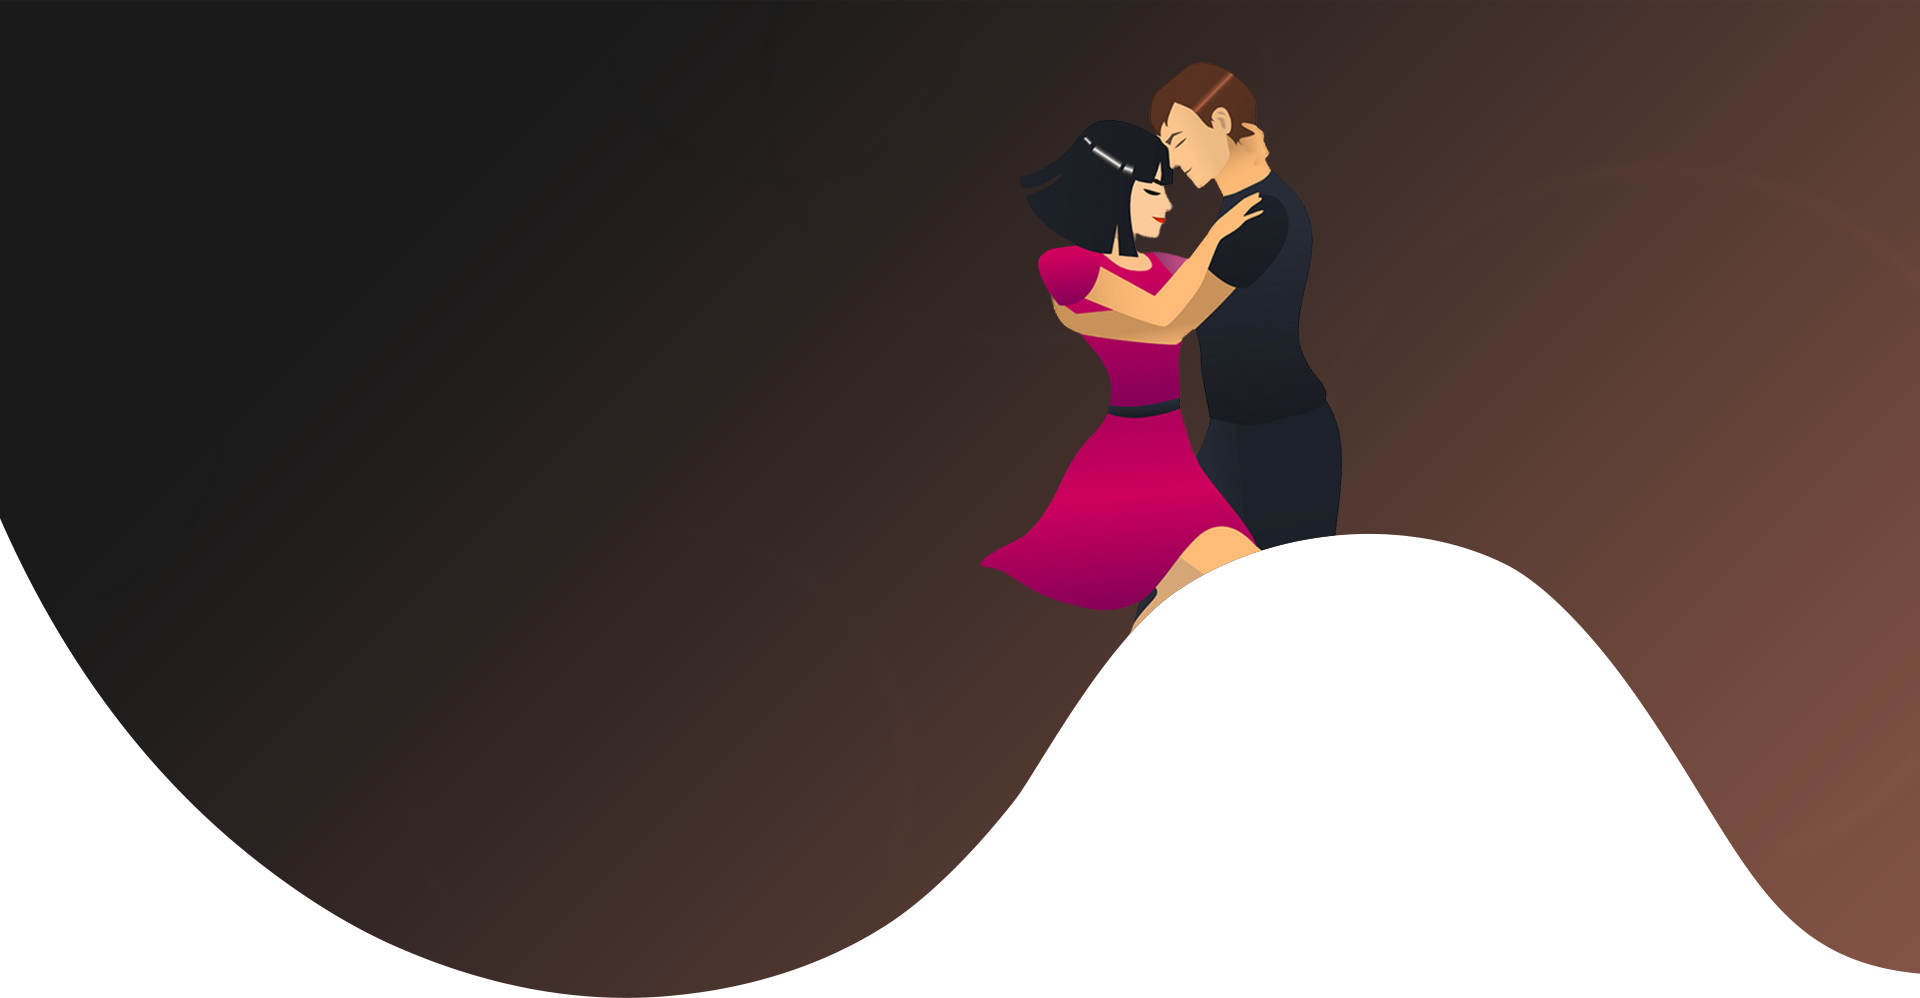
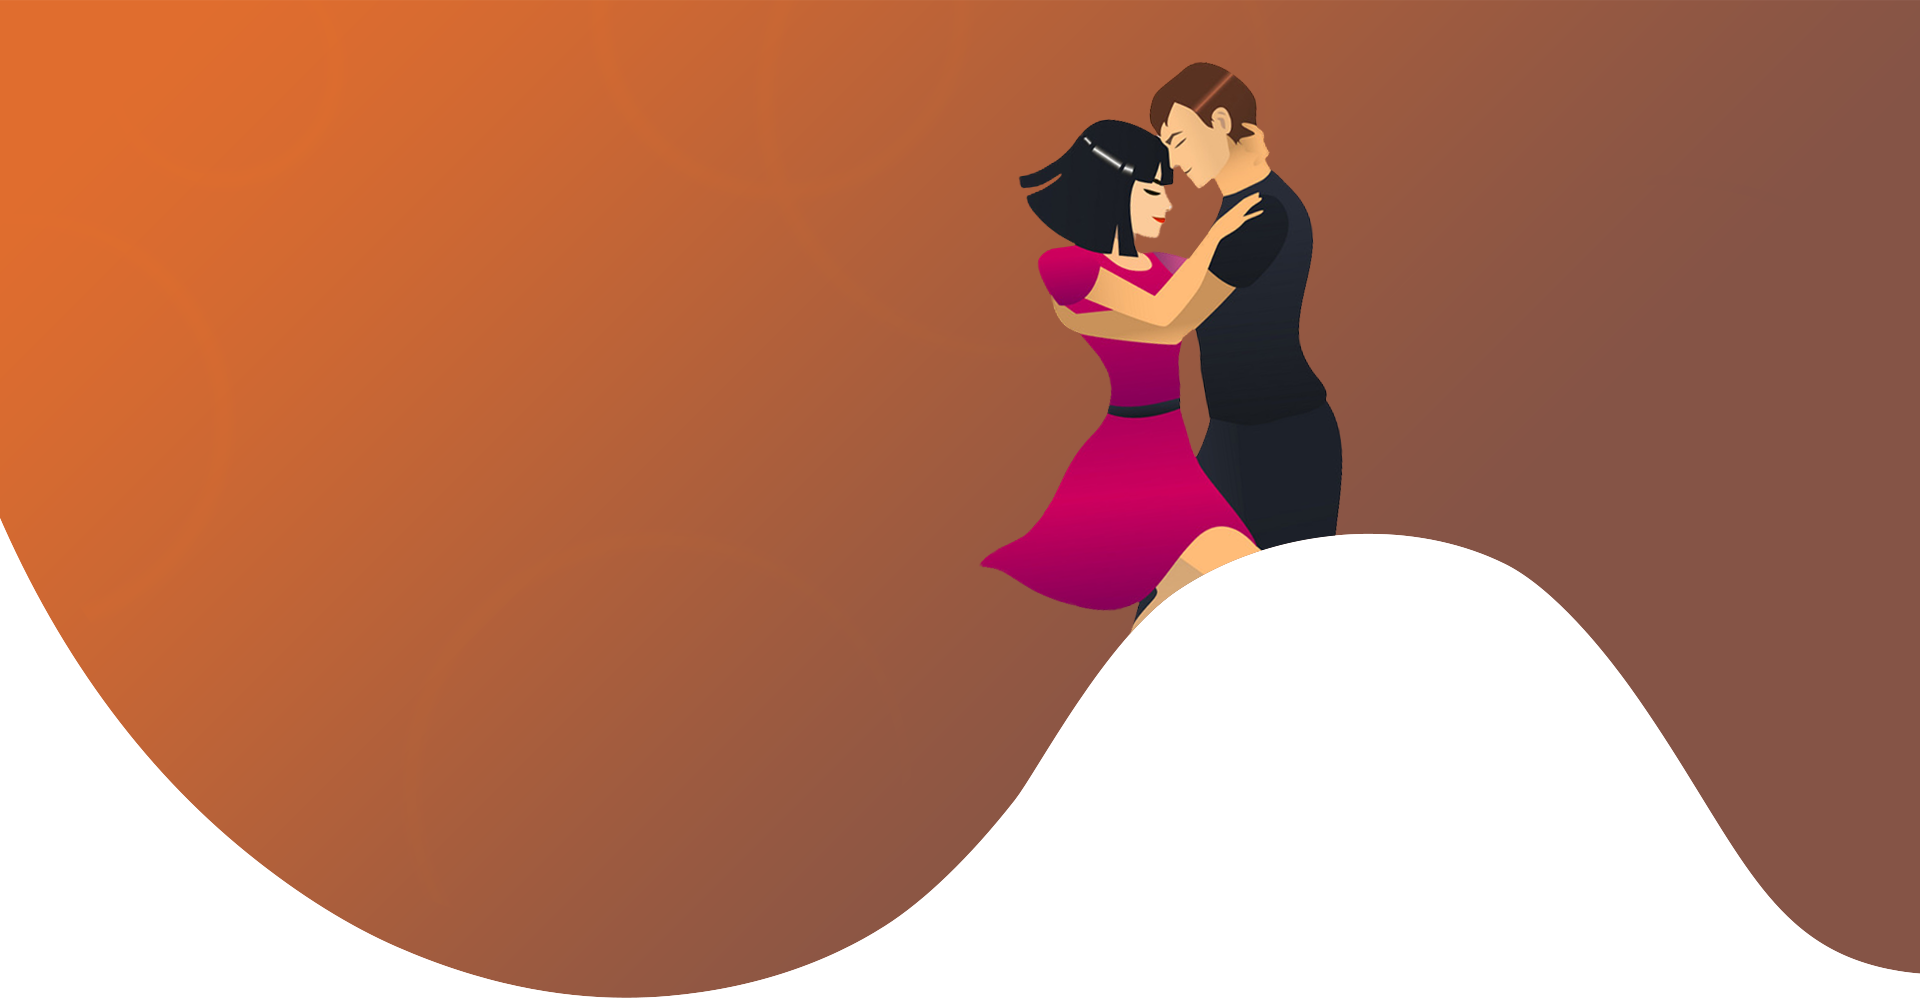
Bachata Pocket
Changes

diff --git a/pocketbachata/index.html b/pocketbachata/index.html
@@ -75,7 +75,7 @@
 											}
 			
 											.pb2 {
-												fill: #FF8541;
+												fill: #FFFFFF;
 											}
 										</style>
 										<g>
@@ -351,18 +351,14 @@
 					<div class="col-12 col-md-6 col-lg-6 col-xl-4">
 						<div class="BBGK-content-item">
 							<div class="BBGK-content-item-icon">
-								<svg xmlns="http://www.w3.org/2000/svg" xmlns:xlink="http://www.w3.org/1999/xlink" width="86" height="74"
-								 viewBox="0 0 86 74">
-									<metadata>
-										<?xpacket begin="" id="W5M0MpCehiHzreSzNTczkc9d"?>
-										<x:xmpmeta xmlns:x="adobe:ns:meta/" x:xmptk="Adobe XMP Core 5.6-c142 79.160924, 2017/07/13-01:06:39        ">
-											<rdf:RDF xmlns:rdf="http://www.w3.org/1999/02/22-rdf-syntax-ns#">
-												<rdf:Description rdf:about="" />
-											</rdf:RDF>
-										</x:xmpmeta>
-										<?xpacket end="w"?>
-									</metadata>
[1 lines of base64/hex data omitted]
+								<svg xmlns="http://www.w3.org/2000/svg" xmlns:xlink="http://www.w3.org/1999/xlink" width="86" height="74" viewBox="0 0 86 74">
+										<metadata><?xpacket begin="" id="W5M0MpCehiHzreSzNTczkc9d"?>
+									<x:xmpmeta xmlns:x="adobe:ns:meta/" x:xmptk="Adobe XMP Core 5.6-c142 79.160924, 2017/07/13-01:06:39        ">
+										 <rdf:RDF xmlns:rdf="http://www.w3.org/1999/02/22-rdf-syntax-ns#">
+												<rdf:Description rdf:about=""/>
+										 </rdf:RDF>
+									</x:xmpmeta><?xpacket end="w"?></metadata>
[1 lines of base64/hex data omitted]
 								</svg>
 							</div>
 							<div class="BBGK-content-item-text">
@@ -375,18 +371,14 @@
 					<div class="col-12 col-md-6 col-lg-6 col-xl-4">
 						<div class="BBGK-content-item secchild">
 							<div class="BBGK-content-item-icon">
-								<svg xmlns="http://www.w3.org/2000/svg" xmlns:xlink="http://www.w3.org/1999/xlink" width="70" height="70"
-								 viewBox="0 0 70 70">
-									<metadata>
-										<?xpacket begin="" id="W5M0MpCehiHzreSzNTczkc9d"?>
-										<x:xmpmeta xmlns:x="adobe:ns:meta/" x:xmptk="Adobe XMP Core 5.6-c142 79.160924, 2017/07/13-01:06:39        ">
-											<rdf:RDF xmlns:rdf="http://www.w3.org/1999/02/22-rdf-syntax-ns#">
-												<rdf:Description rdf:about="" />
-											</rdf:RDF>
-										</x:xmpmeta>
-										<?xpacket end="w"?>
-									</metadata>
[1 lines of base64/hex data omitted]
+								<svg xmlns="http://www.w3.org/2000/svg" xmlns:xlink="http://www.w3.org/1999/xlink" width="70" height="70" viewBox="0 0 70 70">
+										<metadata><?xpacket begin="" id="W5M0MpCehiHzreSzNTczkc9d"?>
+									<x:xmpmeta xmlns:x="adobe:ns:meta/" x:xmptk="Adobe XMP Core 5.6-c142 79.160924, 2017/07/13-01:06:39        ">
+										 <rdf:RDF xmlns:rdf="http://www.w3.org/1999/02/22-rdf-syntax-ns#">
+												<rdf:Description rdf:about=""/>
+										 </rdf:RDF>
+									</x:xmpmeta><?xpacket end="w"?></metadata>
[1 lines of base64/hex data omitted]
 								</svg>
 							</div>
 							<div class="BBGK-content-item-text">
@@ -399,18 +391,15 @@
 					<div class="col-12 col-lg-6 col-xl-4">
 						<div class="BBGK-content-item thchild">
 							<div class="BBGK-content-item-icon">
-								<svg xmlns="http://www.w3.org/2000/svg" xmlns:xlink="http://www.w3.org/1999/xlink" width="60" height="70"
-								 viewBox="0 0 60 70">
-									<metadata>
-										<?xpacket begin="" id="W5M0MpCehiHzreSzNTczkc9d"?>
-										<x:xmpmeta xmlns:x="adobe:ns:meta/" x:xmptk="Adobe XMP Core 5.6-c142 79.160924, 2017/07/13-01:06:39        ">
-											<rdf:RDF xmlns:rdf="http://www.w3.org/1999/02/22-rdf-syntax-ns#">
-												<rdf:Description rdf:about="" />
-											</rdf:RDF>
-										</x:xmpmeta>
-										<?xpacket end="w"?>
-									</metadata>
[1 lines of base64/hex data omitted]
+								<svg xmlns="http://www.w3.org/2000/svg" xmlns:xlink="http://www.w3.org/1999/xlink" width="60" height="70" viewBox="0 0 60 70">
+										<metadata><?xpacket begin="" id="W5M0MpCehiHzreSzNTczkc9d"?>
+									<x:xmpmeta xmlns:x="adobe:ns:meta/" x:xmptk="Adobe XMP Core 5.6-c142 79.160924, 2017/07/13-01:06:39        ">
+										 <rdf:RDF xmlns:rdf="http://www.w3.org/1999/02/22-rdf-syntax-ns#">
+												<rdf:Description rdf:about=""/>
+										 </rdf:RDF>
+									</x:xmpmeta>       
+									<?xpacket end="w"?></metadata>
[1 lines of base64/hex data omitted]
 								</svg>
 							</div>
 							<div class="BBGK-content-item-text">
